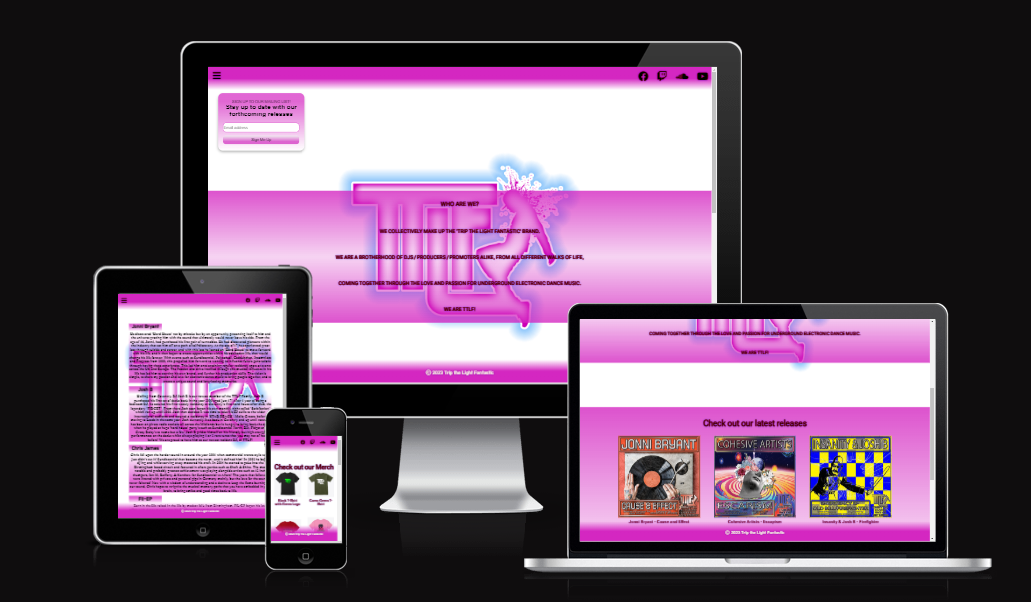
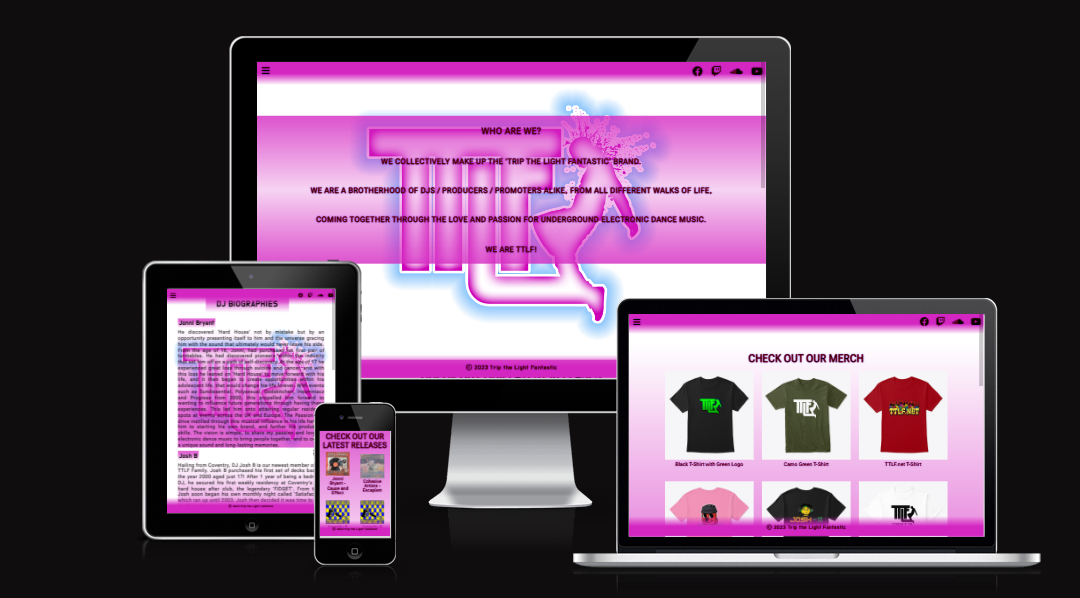
update readme text and new amiresponsive screenshot for readme

diff --git a/assets/css/style.css b/assets/css/style.css
@@ -188,7 +188,7 @@ a {
     text-align: center;
     background-image: linear-gradient(to bottom, rgba(212, 39, 193, 0.7) 30%, rgba(255, 255, 255, 0) 100%);
     position: relative;
-    left: 36%;
+    left: 26%;
     top: -12px;
     line-height: 50px;
     padding-top: 7px;
@@ -339,7 +339,7 @@ h1 {
 } 
 
 /* Code Credit - initially from Love Running Project, amended for purpose*/
-@media screen and (max-width: 916px) {
+@media screen and (max-width: 915px) {
     #socials {
         font-size: larger;
     }

diff --git a/README.md b/README.md
@@ -1,7 +1,7 @@
 # Trip the Light Fantastic
 
 Trip the Light Fantastic is a site for information about the digital record label run by 4 knowledgable and enthusiastic friends from the Midlands, UK. 
-The site is aimed at followers and fans and will allow them to learn more about the owners by way of a DJ profile page, a gallery of latest track releases, and also to view and buy branded merchandise from an external webshop (webshop is embedded).
+The site is aimed at followers and fans and will allow them to learn more about the owners by way of a DJ profile page, a gallery of latest track releases and a gallery of merchandise.
 
 ![Am I Responsive](documentation/images/responsive.png "Am I Responsive?")
 _____
